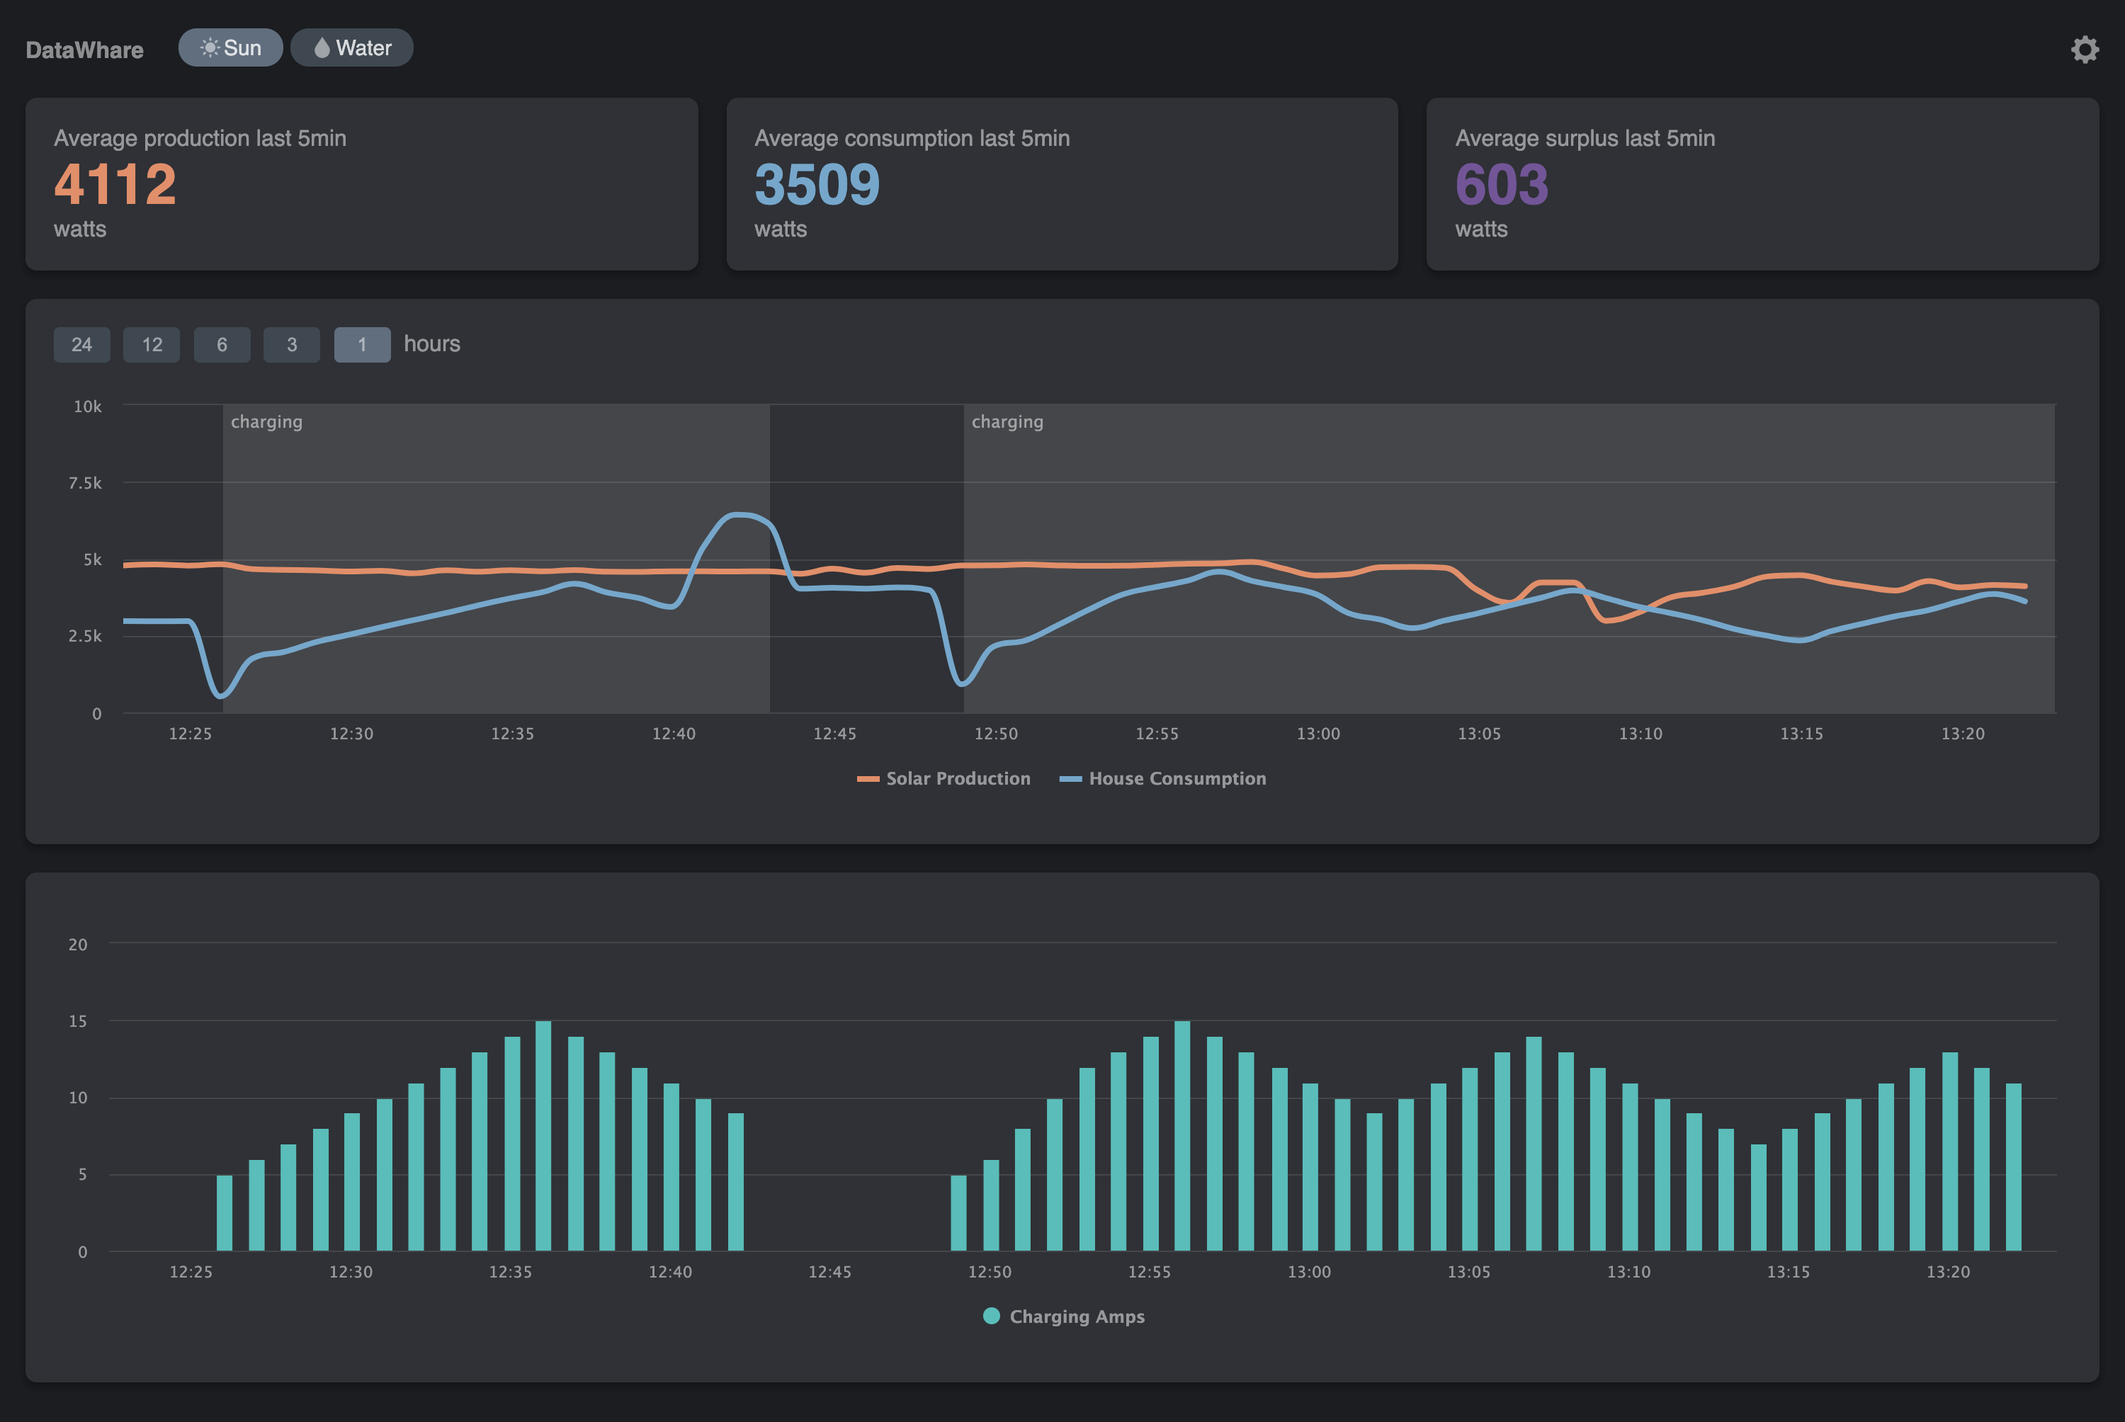
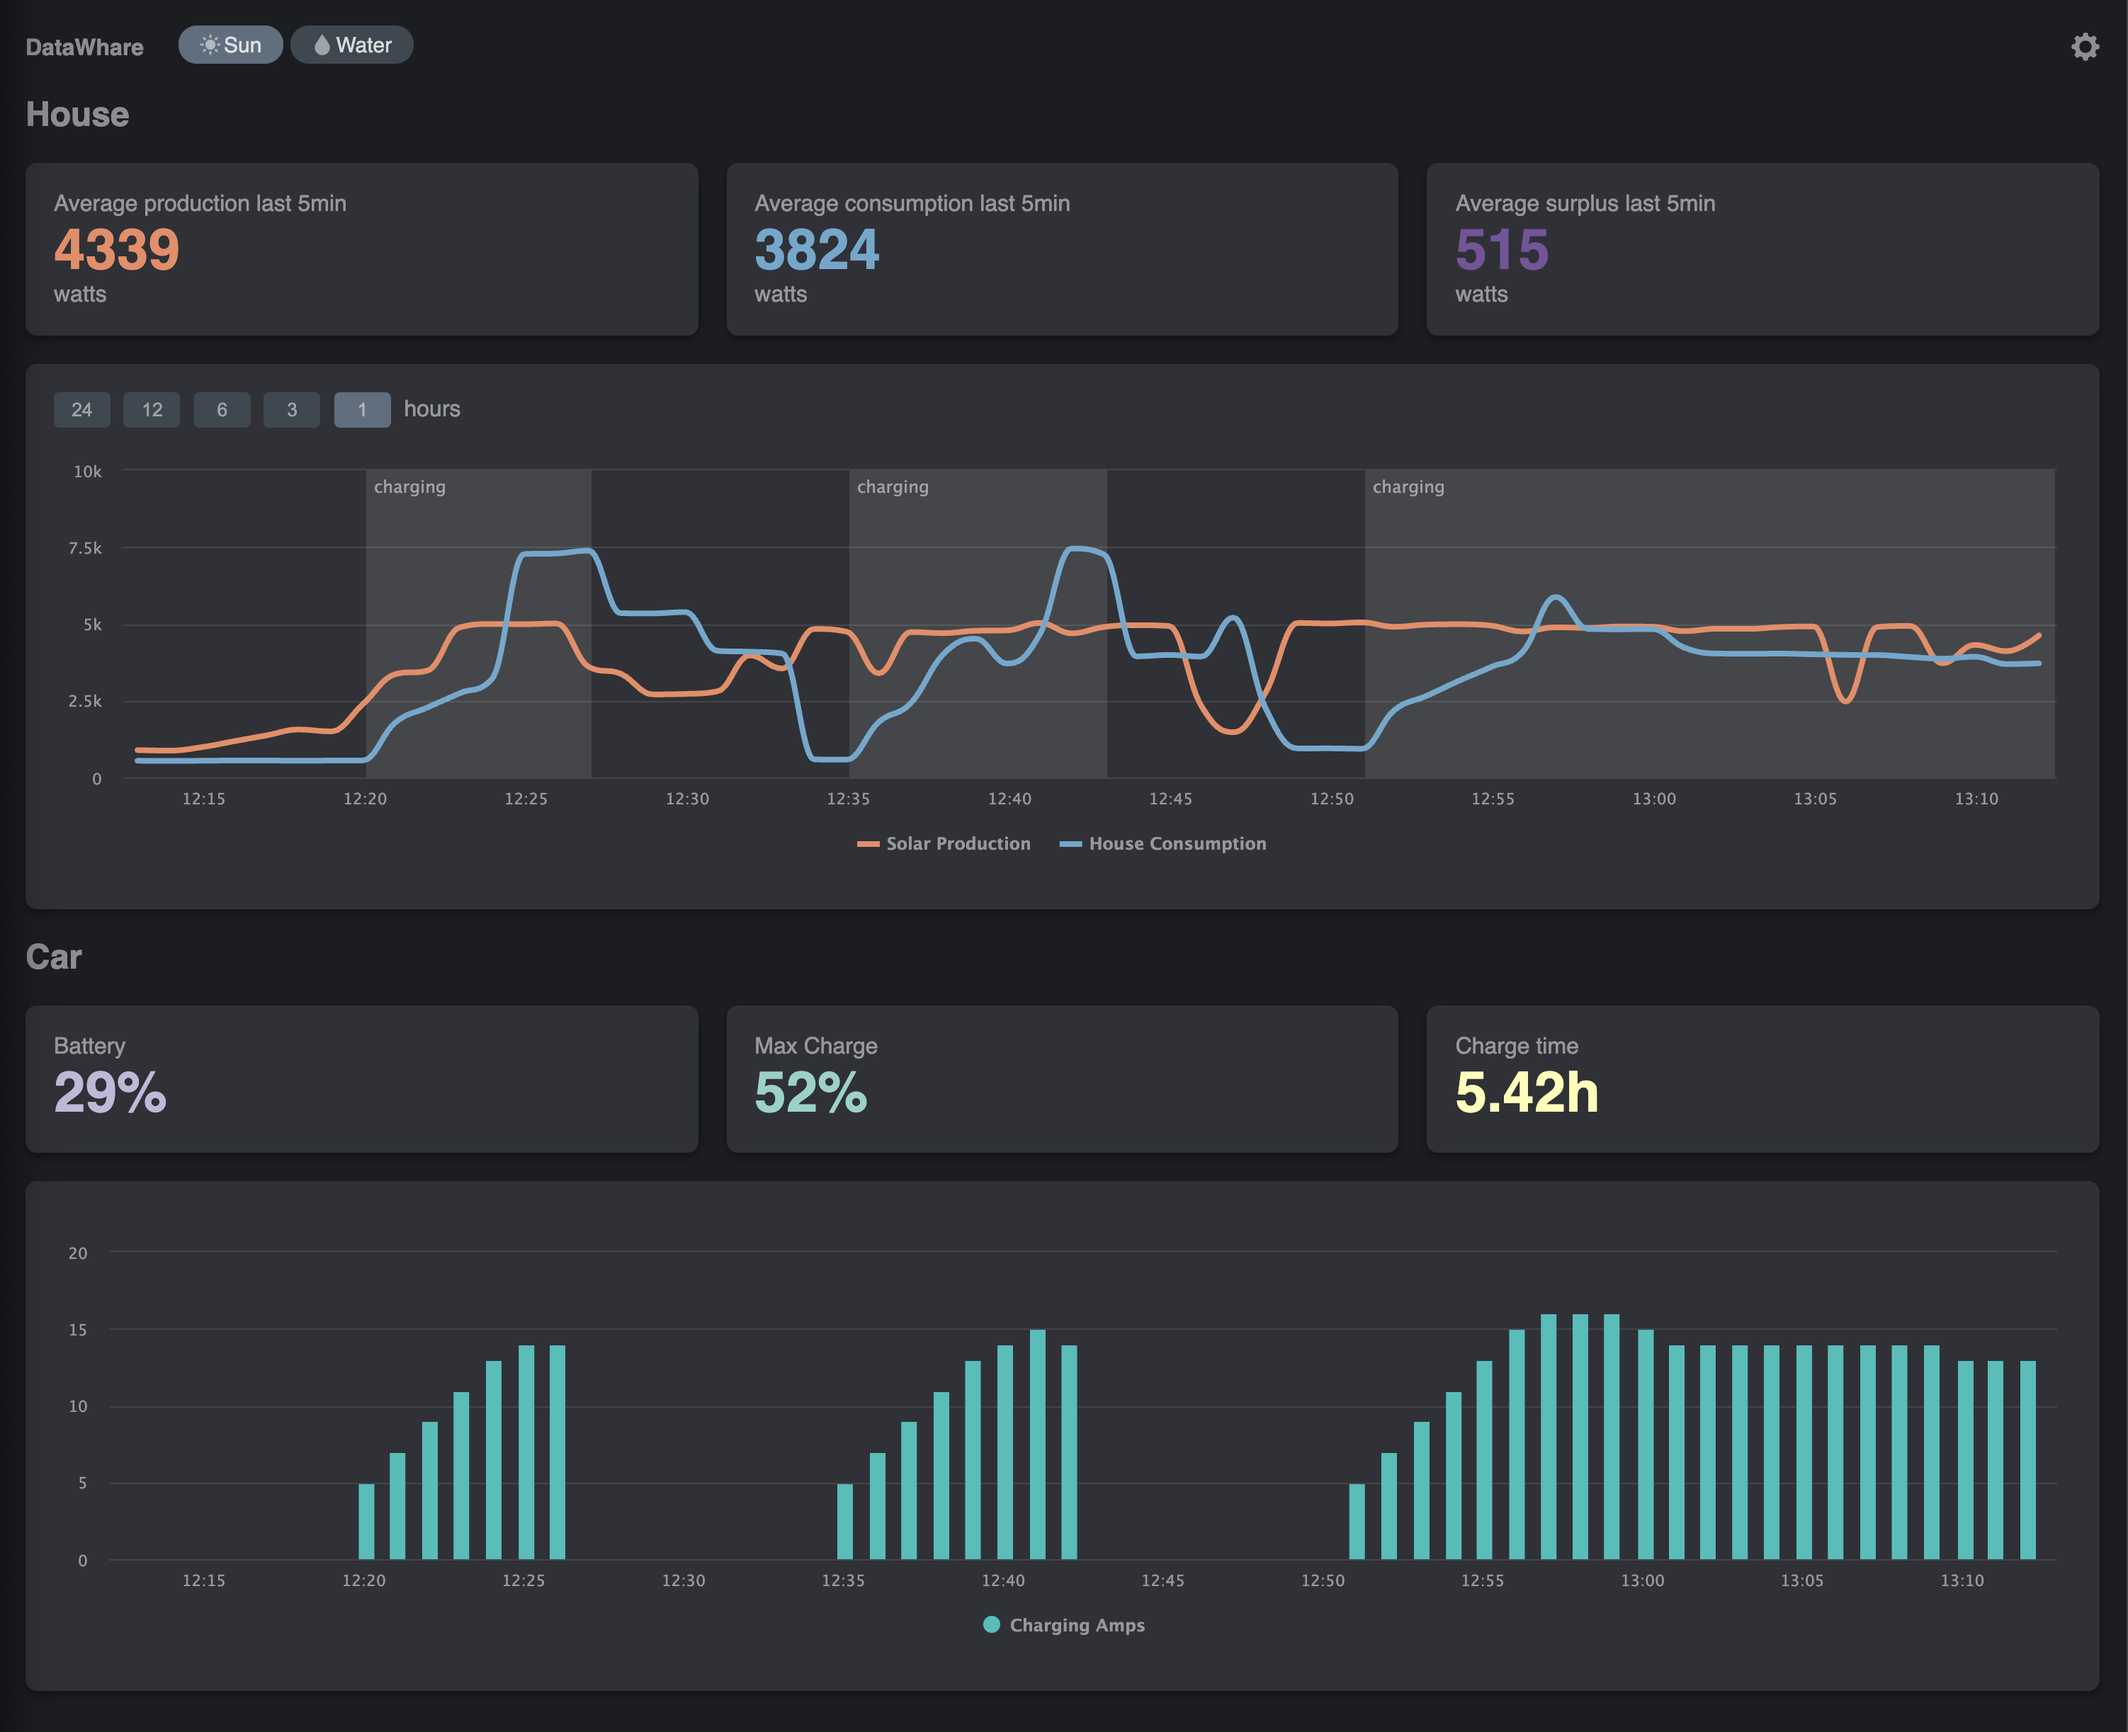
Show battery status

diff --git a/public/css/app.css b/public/css/app.css
@@ -20,7 +20,7 @@ body {
     grid-gap: 20px;
 }
 h2 {
-    margin: 0 0 30px 0;
+    margin: 0;
 }
 a {
     color: rgba(255,255,255,0.8);

diff --git a/app/Http/Controllers/ChargeController.php b/app/Http/Controllers/ChargeController.php
@@ -25,7 +25,7 @@ class ChargeController extends Controller
 
         // 1000 watt needed to start charging at 5amps
         $watts_needed_to_start = 1000;
-        $watts_below_production = 500;
+        $watts_below_production = 250;
         $watts_percentage_buffer = 10;
         $watts_needed_to_stop = -500;
         $amps_start = 5;
@@ -60,6 +60,7 @@ class ChargeController extends Controller
                     // check if we're still a large percentage away
                     // double buffer and bump up amps
                     if ($watt_difference_from_target < (1 - (($watts_percentage_buffer/100) * 2))) {
+                        echo " / double amps as we're a long way from target";
                         $amp_increase = 2;
                     }
                     $change_amps_to = $car->amps + $amp_increase;
@@ -105,12 +106,19 @@ class ChargeController extends Controller
                         $car->save();
                     }
                 } else {
+                    $charge = new Charge();
+                    $charge->time = time();
+                    $charge->action = "amps";
+                    $charge->amps = $car->amps;
+                    $charge->save();
                     echo " / consumption is within the target range of "
                         . $watts_target
                         . " and buffer of "
                         . $watts_percentage_buffer . "%";
                 }
             }
+            // the car is charging so lets get the current battery status as well
+            $status = CarController::getStatus($car);
         } else {
             echo "not charging";
             if ($available_5min > $watts_needed_to_start) {
@@ -127,9 +135,13 @@ class ChargeController extends Controller
                     $car->save();
                     $amps = CarController::setAmps($car, $amps_start);
                     if ($amps) {
+                         echo " / amps set";
                         $car->amps = $amps_start;
                         $car->save();
+                    } else {
+                        echo " / failed to set amps";
                     }
+                    CarController::getStatus($car);
                 }
             } else {
                 echo " / not enough spare juice, turn stuff off in the house!";

diff --git a/resources/views/sun.blade.php b/resources/views/sun.blade.php
@@ -9,6 +9,7 @@
     </head>
     <body>
     @include('nav')
+    <div><h2>House</h2></div>
     <div class="stats">
         <div class="object">
             <span class="desktop">Average production last 5min</span>
@@ -38,6 +39,21 @@
         hours
         <div id="energy" class="chart"></div>
     </div>
+    <div><h2>Car</h2></div>
+    <div class="stats">
+        <div class="object">
+            <span>Battery</span>
+            <div id="battery" class="stat" style="color:#bebada"></div>
+        </div>
+        <div class="object">
+            <span>Max Charge</span>
+            <div id="battery_max" class="stat" style="color:#8dd3c7"></div>
+        </div>
+        <div class="object">
+            <span>Charge time</span>
+            <div id="charge_time" class="stat" style="color:#ffffb3"></div>
+        </div>
+    </div>
     <div class="object">
         <div id="amps" class="chart"></div>
     </div>
@@ -48,6 +64,7 @@
         let production_5min = document.getElementById('production_5min');
         let consumption_5min = document.getElementById('consumption_5min');
         let available_5min = document.getElementById('available_5min');
+        let battery = document.getElementById('battery');
 
         function moveChart() {
             energy.xAxis[0].update({max:Date.now(),min:Date.now()-1000*60*60*hours});
@@ -69,6 +86,9 @@
                 production_5min.innerHTML = data.production_5min;
                 consumption_5min.innerHTML = data.consumption_5min;
                 available_5min.innerHTML = data.available_5min;
+                battery.innerHTML = data.battery + '%';
+                battery_max.innerHTML = data.battery_max + '%';
+                charge_time.innerHTML = data.charge_time + 'h';
                 setTimeout(requestData, 10000);
             }
         }

diff --git a/app/Http/Controllers/CarController.php b/app/Http/Controllers/CarController.php
@@ -58,4 +58,25 @@ class CarController extends Controller
         return false;
     }
 
+    public static function getStatus(Car $car)
+    {
+        $response = Http::get(self::$teslafi . $car->teslafi_api_token);
+        $teslafi = $response->json();
+        //print_r($teslafi);
+        if (isset($teslafi['usable_battery_level'])) {
+            echo " / usable battery is " . $teslafi['usable_battery_level'];
+            $car->battery = $teslafi['usable_battery_level'];
+        }
+        if (isset($teslafi['charge_limit_soc'])) {
+            echo " / max battery is " . $teslafi['charge_limit_soc'];
+            $car->battery_max = $teslafi['charge_limit_soc'];
+        }
+        if (isset($teslafi['time_to_full_charge'])) {
+            echo " / time to charge is " . $teslafi['time_to_full_charge'] . "h";
+            $car->charge_time = $teslafi['time_to_full_charge'];
+        }
+        $car->save();
+        return false;
+    }
+
 }

diff --git a/app/Http/Controllers/EnergyController.php b/app/Http/Controllers/EnergyController.php
@@ -2,6 +2,7 @@
 
 namespace App\Http\Controllers;
 
+use App\Models\Car;
 use App\Models\Charge;
 use App\Models\Energy;
 use Illuminate\Http\Request;
@@ -20,6 +21,9 @@ class EnergyController extends Controller
             'available' => [],
             'charges' => [],
             'amps' => [],
+            'battery' => "--",
+            'battery_max' => "--",
+            'charge_time' => "--"
         ];
 
         $hours = request()->query('hours', 1);
@@ -101,6 +105,14 @@ class EnergyController extends Controller
             ];
         }
         $data['charges'] = $charge_bands;
+
+        // get car battery state
+        $car = Car::all()->first();
+        if ($car->charging) {
+            $data['battery'] = $car->battery;
+            $data['battery_max'] = $car->battery_max;
+            $data['charge_time'] = $car->charge_time;
+        }
 
         return json_encode($data);
     }

diff --git a/database/migrations/2021_10_24_210950_create_cars_table.php b/database/migrations/2021_10_24_210950_create_cars_table.php
@@ -18,7 +18,9 @@ class CreateCarsTable extends Migration
             $table->string('name')->comment('name of car');
             $table->boolean('charging')->default(false)->comment('is the car charging');
             $table->integer('amps')->nullable()->comment('amps that car is charging at');
-            $table->integer('soc')->nullable()->comment('current state of charge percentage');
+            $table->integer('battery')->nullable()->comment('current state of charge percentage');
+            $table->integer('battery_max')->nullable()->comment('max battery level');
+            $table->float('charge_time')->nullable()->comment('time remaining to charge in hours');
             $table->string('teslafi_api_token')->nullable()->comment('api token from teslafi');
             $table->timestamps();
         });

diff --git a/resources/views/settings.blade.php b/resources/views/settings.blade.php
@@ -15,7 +15,9 @@
         <div class="object">
             <form class="form" method="post" action="/settings">
                 @csrf
-                <h2>Car</h2>
+                <div class="form__group">
+                    <h2>Car</h2>
+                </div>
                 <div class="form__group">
                     <label>Name</label>
                     <input name="car_name" type="text" value="{{ $data['car_name'] }}">
